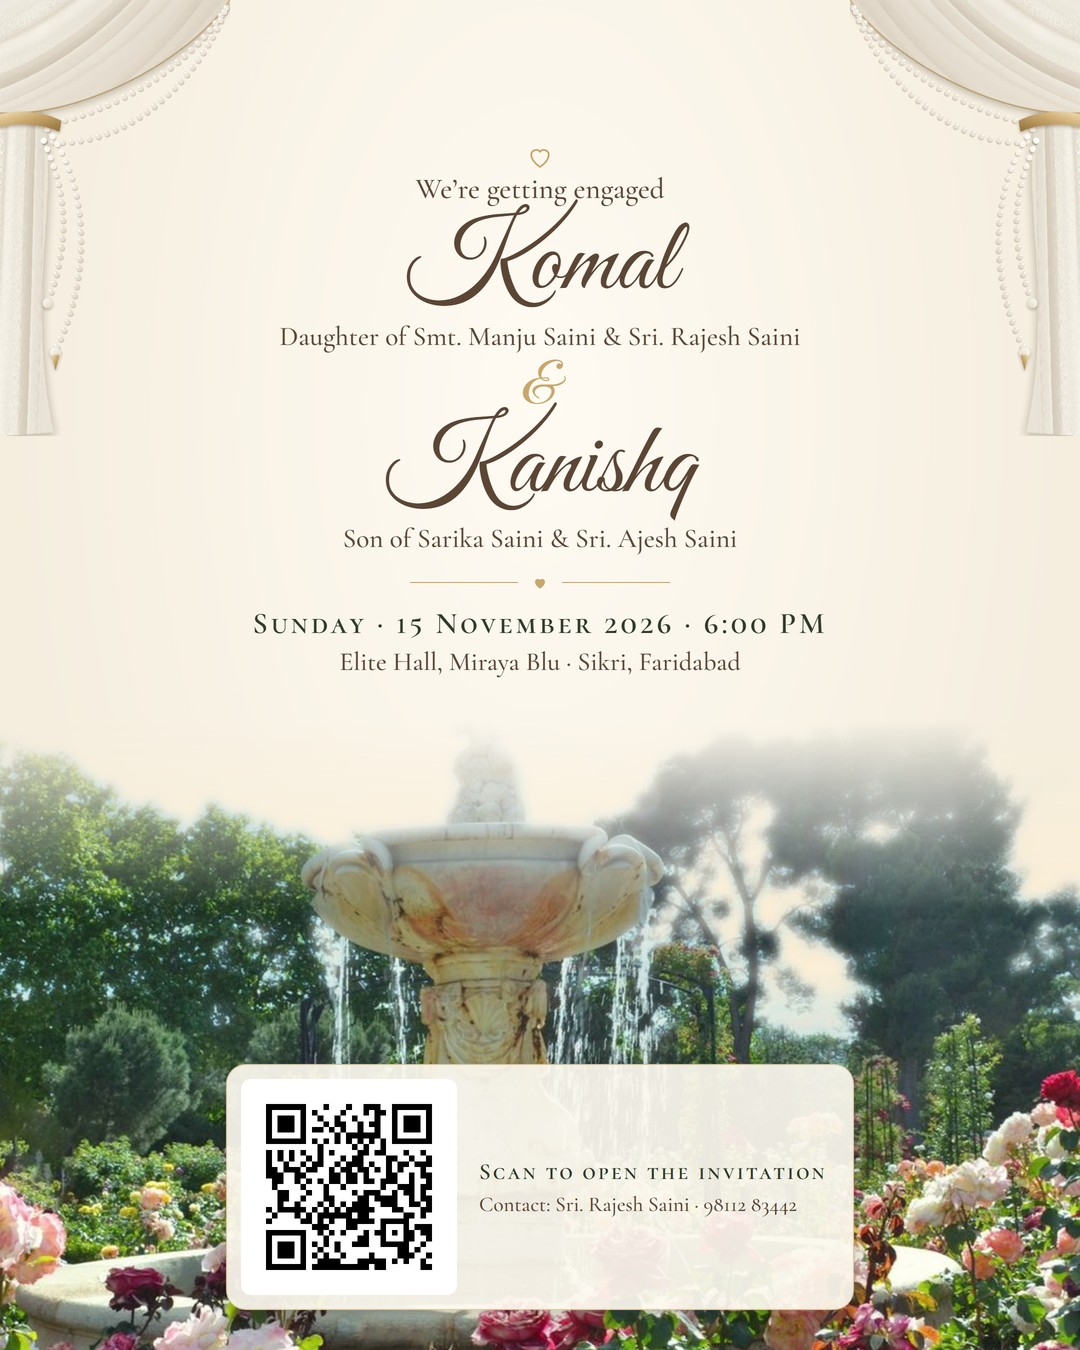
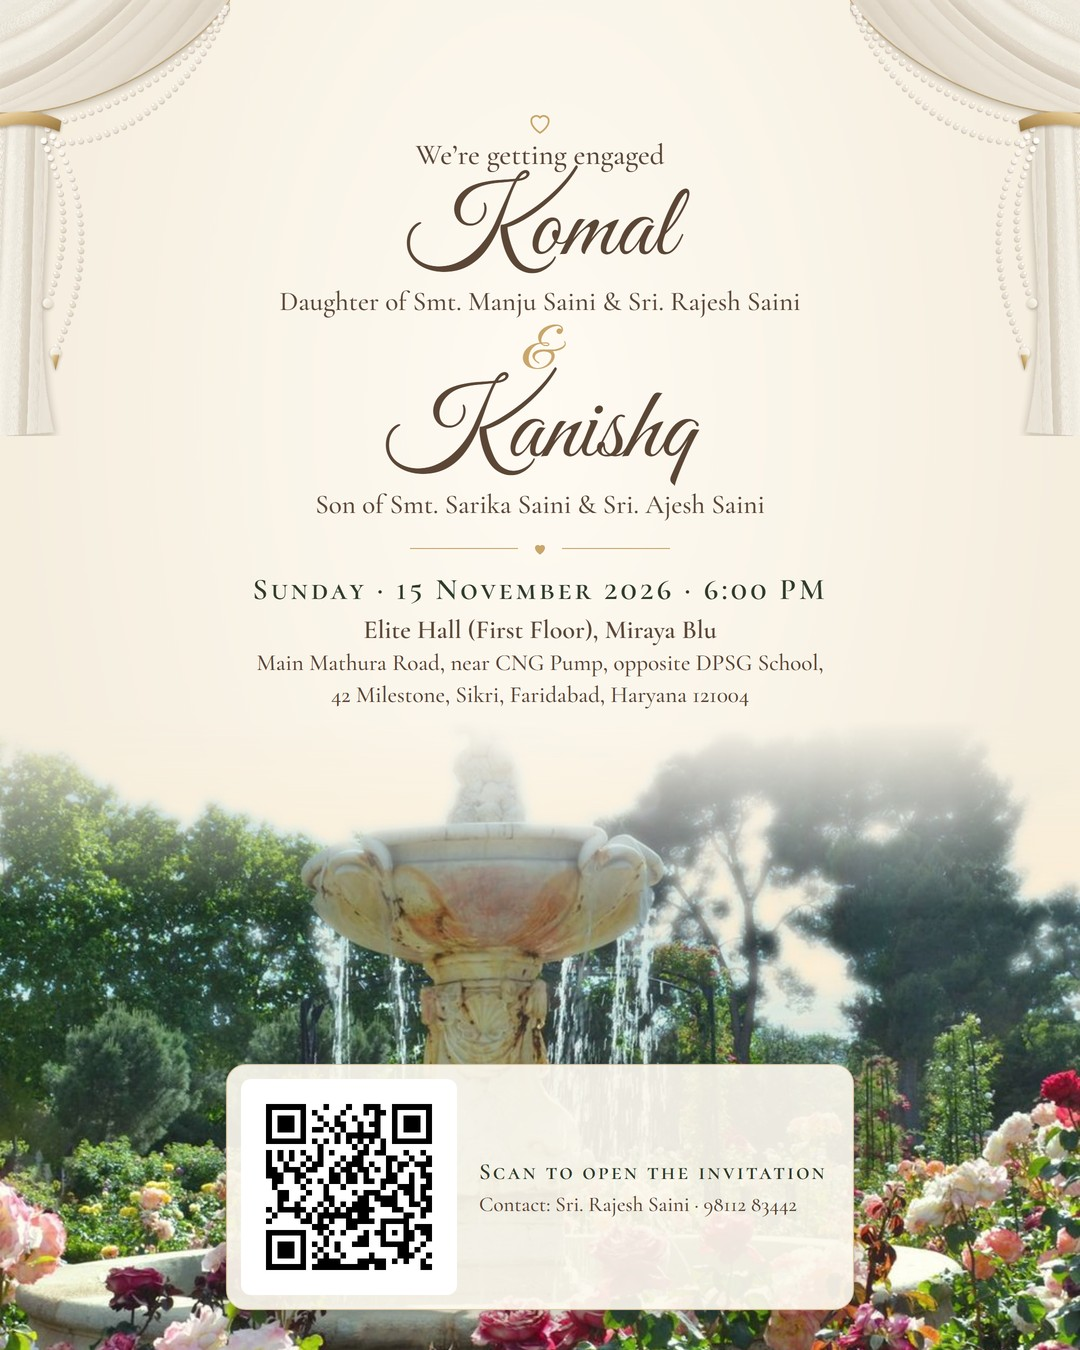
Add Smt. for groom's mother; full venue address on invite card

Changed region(s): [[0.2444, 0.0933, 0.7639, 0.5289]]

diff --git a/tools/card.html b/tools/card.html
@@ -20,7 +20,8 @@
   .hr::before, .hr::after { content: ""; flex: 1; height: 1.5px; background: currentColor; }
   .hr svg { width: 16px; }
   .when { font: 600 30px "Cormorant SC", serif; letter-spacing: .1em; color: #2f3b2a; }
-  .venue { font-size: 26px; margin-top: 4px; }
+  .venue { font-size: 26px; font-weight: 600; margin-top: 6px; }
+  .addr { font-size: 23px; line-height: 1.4; color: #5b4636; margin: 2px -60px 0; }
   .venue.follow { font-style: italic; font-size: 25px; color: #7a6656; margin-top: 10px; }
   .foot.solo { padding: 16px 40px; text-align: center; }
   .foot.solo .t3 { font-size: 26px; margin-top: 2px; }

diff --git a/index.html b/index.html
@@ -69,7 +69,7 @@
         <p class="who">Daughter of Smt.&nbsp;Manju&nbsp;Saini &amp; Sri.&nbsp;Rajesh&nbsp;Saini</p>
         <p class="amp">&amp;</p>
         <p class="name">Kanishq</p>
-        <p class="who">Son of Sarika&nbsp;Saini &amp; Sri.&nbsp;Ajesh&nbsp;Saini</p>
+        <p class="who">Son of Smt.&nbsp;Sarika&nbsp;Saini &amp; Sri.&nbsp;Ajesh&nbsp;Saini</p>
       </div>
       <div class="scene">
         <div class="scene-inner">

diff --git a/tools/build_images.py b/tools/build_images.py
@@ -66,7 +66,10 @@ def events_html():
 
 def venue_html():
     if filled(D.get("venue", "")):
-        return f'<div class="venue">{e(D["venue"])}</div>'
+        lines = D.get("address") or []
+        lines = [lines] if isinstance(lines, str) else lines  # one string, or a list of lines
+        addr = f'<div class="addr">{"<br>".join(e(l) for l in lines)}</div>' if lines and all(map(filled, lines)) else ""
+        return f'<div class="venue">{e(D["venue"])}</div>{addr}'
     return f'<div class="venue follow">{e(D["to_follow"])}</div>'
 
 
